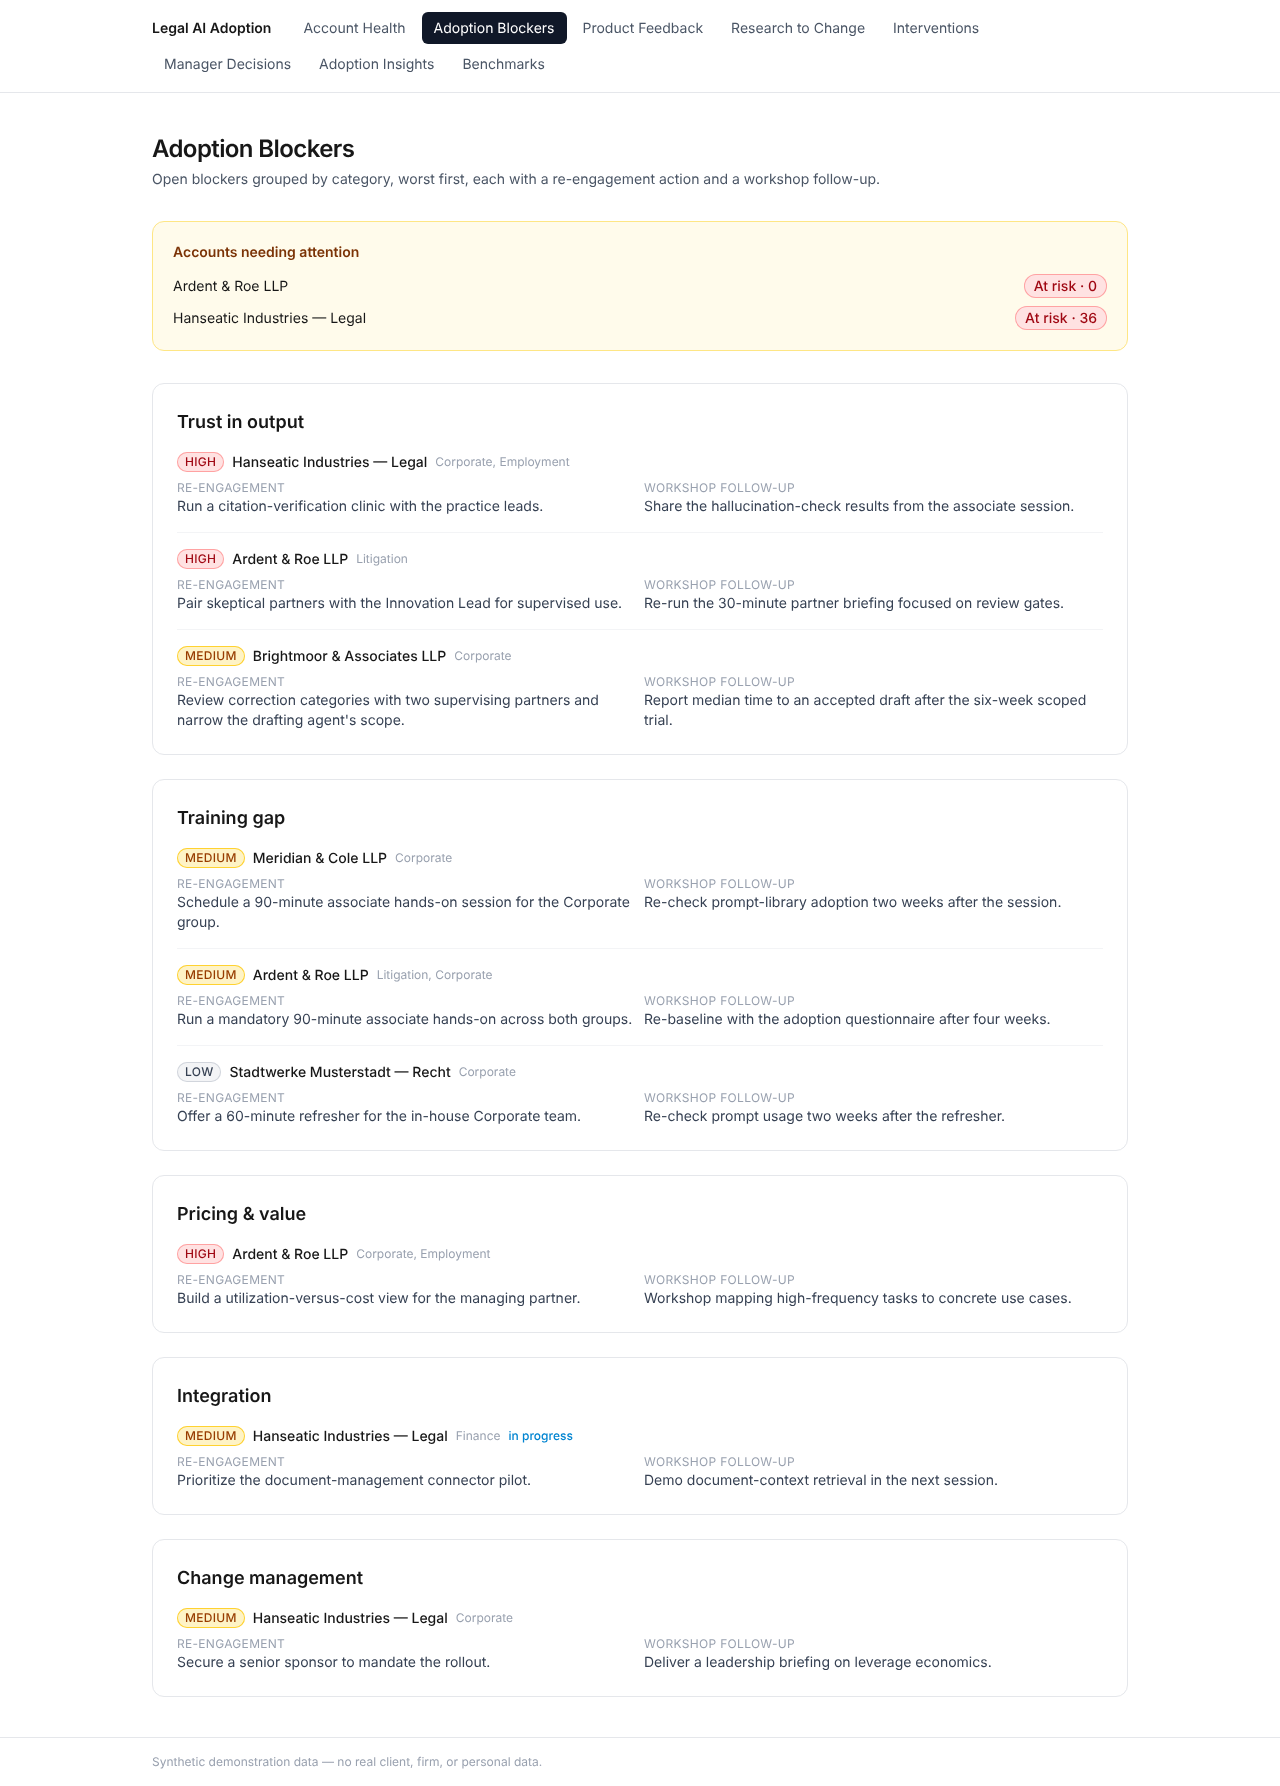
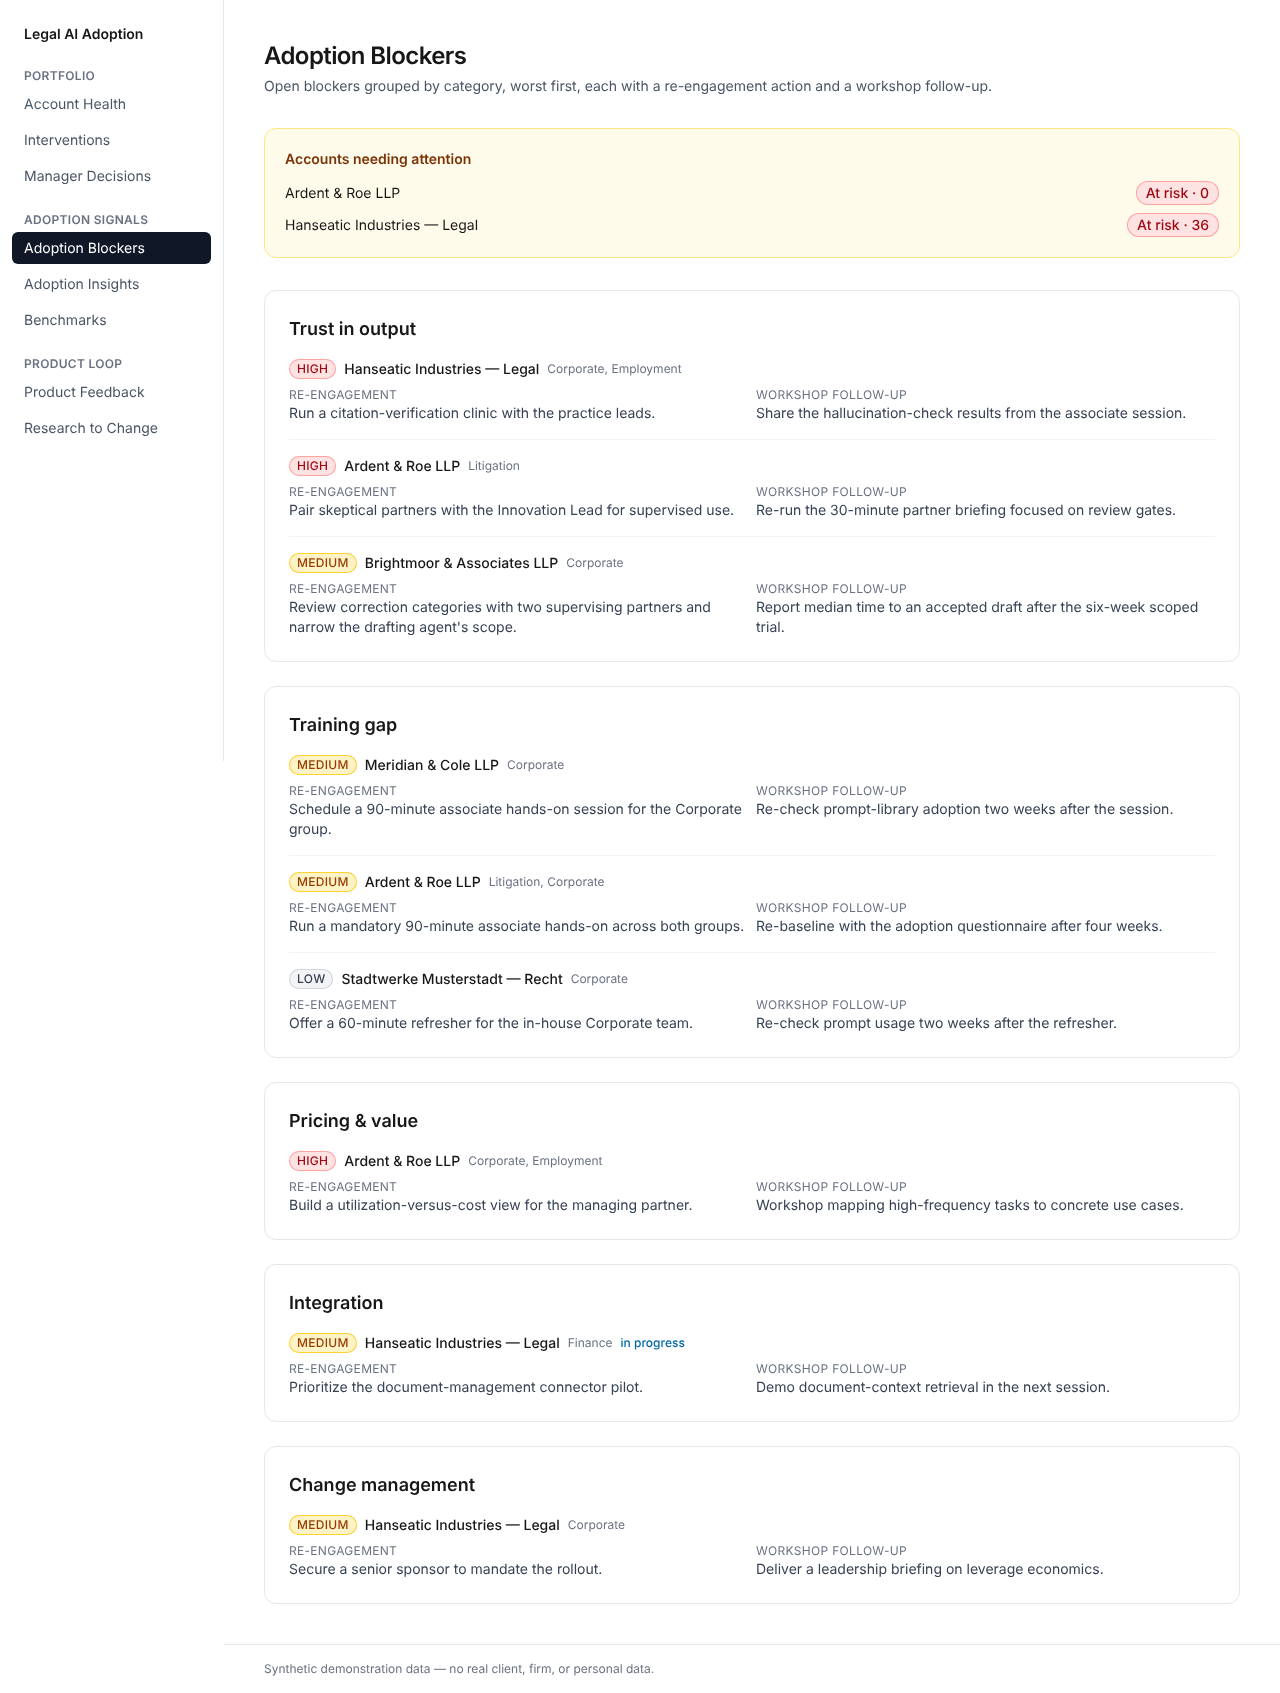
docs: features, index, changelog, test count and refreshed screenshots
- docs/FEATURES.md: the health-score explanation, charts, usage export and
  app shell, with their code
- docs/README.md links the research docs, the ADRs and the new CHANGELOG.md
- CASE_STUDY.md: 253 Vitest tests (it said 132; pnpm test reported 228
  before this branch)
- AGENTS.md: components/charts/, the CSV route, app/error.tsx as a client
  component
- docs/demo.png and docs/screenshots/ retaken from the built app

README.md is unchanged at 350 words.

Claude-Session: https://claude.ai/code/session_01UWrozuzC1TPwPwvaWzHsCQ

diff --git a/docs/FEATURES.md b/docs/FEATURES.md
@@ -36,6 +36,19 @@ Implementation:
 3. `lib/portfolio.ts`
 4. `lib/data.ts`
 
+## Health-score explanation
+
+On `/accounts/[id]`, "How this score is built" shows each component's points against its
+maximum, the configured weights and, when reviewed output is unknown, the weights rescaled
+without it. It lists the blocker penalty rule and the band cut-offs. The change since the
+last QBR is shown as a number only: the previous breakdown is not stored, so no component is
+credited with the move. The score is not an input to expansion and does not predict renewal.
+
+Implementation:
+
+1. `lib/health-explain.ts`
+2. `components/HealthExplanation.tsx`
+
 ## Adoption Cockpit
 
 `legal-ai-adoption.adoption-cockpit.v1` aggregates local synthetic JSON into active
@@ -83,6 +96,33 @@ Implementation:
 1. `lib/engagement/adoption-trend.ts`
 2. `components/engagement/AdoptionTrendTable.tsx`
 3. `data/adoption-periods.json`
+
+## Charts
+
+Activation and repeat use per period, the weekly-active trend and specialist capacity are
+SVG drawn on the server, with no client JavaScript. Each chart has a title, a description
+listing every value and a visually hidden table. A value that was not captured is a dashed
+grey gap labelled Unknown, never a zero bar; an incomplete period is a lighter bar with a
+dashed edge. See [ADR 0001](adr/0001-charts.md).
+
+Implementation:
+
+1. `lib/charts.ts`
+2. `components/charts/BarChart.tsx`
+3. `components/charts/Meter.tsx`
+
+## Practice-group usage export
+
+`/accounts/<id>/usage.csv` downloads one row per practice group: seats, active users, seat
+utilisation, queries per week and each weekly active-user count. The window is stated in
+every row as the weeks ending on the as-of date; the synthetic counts are undated, so no
+calendar quarter is claimed. A missing value is an empty cell. The file name starts with
+`synthetic-` and every row is a draft for account-owner review.
+
+Implementation:
+
+1. `lib/exports/practice-group-usage.ts`
+2. `app/accounts/[id]/usage.csv/route.ts`
 
 ## Customer value
 
@@ -156,3 +196,18 @@ Implementation:
 1. `app/feedback/page.tsx`
 2. `data/feedback.json`
 3. `docs/product-feedback-notes.md`
+
+## App shell
+
+A sidebar grouped by job (Portfolio, Adoption signals, Product loop) from the `lg`
+breakpoint, a skip link, and pages for loading, errors and unknown addresses. Colours are
+semantic tokens (`muted`, `link`, `focus`, `chart`, `unknown`) that pass WCAG AA. See
+[ADR 0002](adr/0002-navigation.md) and the [competitive research](research/adaptation-plan.md)
+behind these changes.
+
+Implementation:
+
+1. `app/layout.tsx`
+2. `lib/navigation.ts`
+3. `app/globals.css`
+4. `app/loading.tsx`, `app/error.tsx`, `app/not-found.tsx`

diff --git a/CHANGELOG.md b/CHANGELOG.md
@@ -1,0 +1,33 @@
+# Changelog
+
+All synthetic data; nothing here is legal advice.
+
+## Unreleased
+
+From the October 2026 competitive research ([plan](docs/research/adaptation-plan.md)).
+
+### Added
+
+- Accessible SVG charts with no client JavaScript: a missing value is a dashed grey Unknown
+  gap, never a zero bar, and every chart has a title, a description and a hidden data table.
+  Activation and repeat use now show as bars per reporting period.
+  ([ADR 0001](docs/adr/0001-charts.md))
+- "How this score is built" on each account: component points, configured and rescaled
+  weights, the blocker penalty and band cut-offs. A change since the last QBR is shown, never
+  attributed to a component.
+- `/accounts/<id>/usage.csv`: per-practice-group usage over the weeks ending on the as-of
+  date, with empty cells for missing values. ([ADR 0004](docs/adr/0004-exports.md))
+- A sidebar grouped by job, a skip link, and loading, error and not-found pages.
+  ([ADR 0002](docs/adr/0002-navigation.md))
+- Competitive research, a feature matrix, a design teardown and five ADRs under `docs/`.
+
+### Changed
+
+- Colours are semantic tokens. Secondary text moves from gray-400 to gray-500, which clears
+  every axe colour-contrast violation; links, focus rings and bars share the violet accent.
+- Tables use tabular numerals; horizontally scrolling tables are keyboard-focusable.
+
+### Fixed
+
+- The portfolio CSV wrote `0.0000` utilisation for an account without seats; it is now empty.
+- `/benchmarks` peer-median metrics sit in a description list (axe `dlitem`).

diff --git a/docs/README.md b/docs/README.md
@@ -28,6 +28,15 @@ Every guide in `docs/` and the main project files. The [README](../README.md) co
 - [docs/CASE_STUDY_TEMPLATE.md](CASE_STUDY_TEMPLATE.md): a template for a case study from approved records
 - [docs/BASELINE.md](BASELINE.md): the baseline before the evidence-loop work and the extension that connects its components
 
+## Competitive research and decisions
+
+- [docs/research/2026-10-competitive-landscape.md](research/2026-10-competitive-landscape.md): method, searches, products, context and the sources that were not reachable
+- [docs/research/feature-matrix.csv](research/feature-matrix.csv): one row per researched product across fourteen capability areas
+- [docs/research/design-teardown.md](research/design-teardown.md): patterns from eight products and a decision per dashboard surface
+- [docs/research/adaptation-plan.md](research/adaptation-plan.md): baseline, scores, anti-patterns, positioning, specs and the decisions left to the owner
+- [docs/adr/README.md](adr/README.md): architecture decision records for charts, navigation, dark mode, exports and saved views
+- [CHANGELOG.md](../CHANGELOG.md): what changed and when
+
 ## Project files
 
 - [data/README.md](../data/README.md): the synthetic data statement and the engagement and evidence-loop data files

diff --git a/AGENTS.md b/AGENTS.md
@@ -36,9 +36,11 @@ or personal data.
   or anything from the private store, into this repository.
 - `app/` — Server-Component routes: `/`, `/accounts/[id]`, `/accounts/[id]/review`,
   `/blockers`, `/feedback`, `/research` (and the Markdown route `/research/backlog`), `/interventions`, `/manager`, `/insights`, and the
-  Markdown route `/insights/report` (`?account=<id>` for a customer review).
+  Markdown route `/insights/report` (`?account=<id>` for a customer review), and the CSV route
+  `/accounts/[id]/usage.csv`.
 - `components/` — presentational Server Components; `components/engagement/` holds the
-  panels for the manager layer. `ExportButton` and `NavLinks` are the only client components.
+  panels for the manager layer; `components/charts/` holds the SVG charts (no chart library).
+  `ExportButton`, `NavLinks` and `app/error.tsx` are the only client components.
 
 ## Conventions
 - TypeScript strict. Any `any` needs an inline justification.

diff --git a/CASE_STUDY.md b/CASE_STUDY.md
@@ -108,8 +108,9 @@ weights are rescaled. Expansion readiness is now a separate evidence model.
 
 ## Verification
 
-132 Vitest tests cover denominators, missing evidence, intervention states, health
-scoring, the value verdict, expansion decisions, manager ordering and the report. A
+253 Vitest tests cover denominators, missing evidence, intervention states, health
+scoring, the value verdict, expansion decisions, manager ordering, the report, the
+charts' Unknown gaps, the health-score explanation and the usage export. A
 mutation spot-check broke seven rules one at a time (for example, counting unknown
 evidence as met, or dividing repeat use by active users) and the suite failed each time.
 The rendered pages were inspected at 1280 and 375 pixels.
